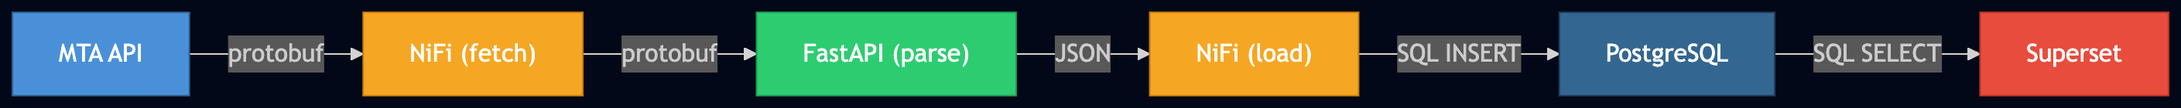
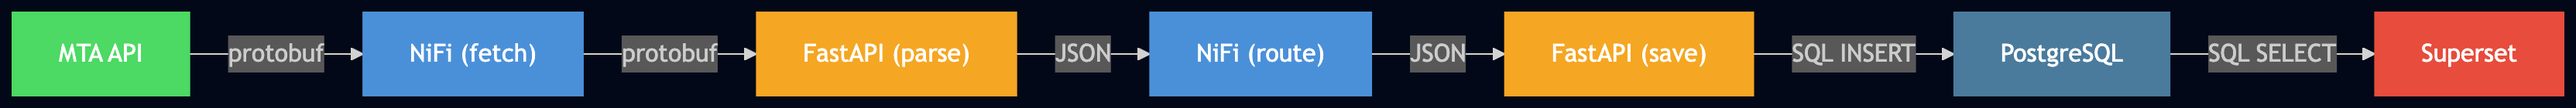
cambios en documentacion

diff --git a/README.md b/README.md
@@ -1,6 +1,6 @@
 # MTA Subway Realtime - Real Time Pipeline
 
-Alejandra Alvarado | Rudy Osorio | Erick Marroquín
+Alejandra Alvarado | Rudy Osorio | Erick Marroquin
 
 Big Data 2
 
@@ -15,52 +15,70 @@ Construir una plataforma de datos que:
 1. **Ingeste** los feeds GTFS-RT (protobuf) de la MTA en tiempo real
 2. **Parsee** el protobuf a JSON estructurado
 3. **Almacene** posiciones de trenes y predicciones de llegada en PostgreSQL
-4. **Visualice** los datos mediante dashboards interactivos en Superset
+4. **Enriquezca** los datos con schedules estaticos GTFS para deteccion de delays
+5. **Visualice** los datos mediante dashboards interactivos en Superset
 
 ## Arquitectura
 
 ![Arquitectura](docs/arquitectura.png)
 
-### Flujo de Datos
-
-![Flujo de datos](docs/flujo-datos.png)
+NiFi orquesta todo el flujo: cada 30 segundos hace fetch del feed GTFS-RT de la MTA, lo envia a FastAPI para parsearlo de protobuf a JSON, y luego lo envia de vuelta a FastAPI para persistirlo en PostgreSQL. Superset consulta las vistas gold directamente para los dashboards.
 
 ## Servicios
 
 | Servicio       | Contenedor       | Puerto  | Descripcion                                                |
 |----------------|------------------|---------|------------------------------------------------------------|
-| **PostgreSQL** | `mta-postgres`   | `5433`  | Almacena datos de la MTA y metadatos de Superset           |
-| **FastAPI**    | `mta-api`        | `8000`  | Parsea protobuf GTFS-RT a JSON                             |
+| **PostgreSQL** | `mta-postgres`   | `5432`  | Almacena datos de la MTA y metadatos de Superset           |
+| **FastAPI**    | `mta-api`        | `8000`  | Parsea protobuf GTFS-RT a JSON y guarda a la base de datos |
 | **NiFi**       | `mta-nifi`       | `8080`  | Orquesta la ingesta: fetch, parse y carga a la base        |
 | **Superset**   | `mta-superset`   | `8190`  | Dashboards y visualizacion de datos                        |
 
-### Red
-
 Todos los servicios comparten la red Docker `mta` (bridge), lo que permite la comunicacion interna por nombre de contenedor.
 
-## Modelo de Datos
+## Flujo de Datos
 
-![Modelo de datos](docs/modelo-datos.png)
+![Flujo de Datos](docs/flujo-datos.png)
 
-**Tablas de dimension:** `routes`, `stops`, `trips`, `train_statuses`
-**Tablas de hechos:** `vehicle_positions`, `time_updates`
+## Modelo de Datos — Arquitectura Medallion
+
+El modelo sigue una **arquitectura medallion** con tres capas: Bronze para datos crudos, Silver para datos de referencia, y Gold para vistas enriquecidas listas para consumo.
+
+![Modelo de Datos](docs/modelo-datos.png)
+
+### Bronze — Datos Crudos y Dimensiones
+
+Datos en tiempo real tal como llegan del feed de la MTA. Incluye tablas de dimension (`routes`, `stops`, `trips`, `train_statuses`) y tablas de hechos (`vehicle_positions`, `time_updates`) con deduplicacion automatica.
+
+### Silver — Schedule GTFS Estatico
+
+Horarios oficiales del subway cargados una sola vez desde los archivos GTFS estaticos. Incluye `calendar`, `calendar_dates`, `scheduled_trips` y `stop_times`.
+
+### Gold — Vistas Enriquecidas
+
+Vistas SQL que combinan datos realtime con los schedules estaticos:
+
+- **`v_gold_vehicle_positions`** — Posiciones de trenes enriquecidas con nombre de ruta, color, estacion y coordenadas. Lista para visualizar en un mapa.
+- **`v_gold_time_updates`** — Compara las predicciones de llegada en tiempo real contra el horario programado para detectar delays. Si un tren tiene mas de 5 minutos de retraso se marca como `DELAYED`, esta es una métrica del MTA que considera un tren retrasado si se pasa de 300 segundos (5 minutos) de la hora calendarizada.
 
 ## Estructura del Proyecto
 
 ```
 mta-nifi/
 ├── api/
-│   ├── main.py                  # App FastAPI (endpoints /health y /parse)
+│   ├── main.py                  # App FastAPI (endpoints /health, /parse, /save)
 │   └── requirements.txt         # Dependencias Python
 ├── database/
-│   ├── mta.sql                  # DDL: tablas, indices, constraints
-│   ├── seed.sql                 # Datos iniciales (rutas, estados)
-│   └── mta_g_feed.json         # Ejemplo de feed GTFS-RT convertido a JSON
+│   ├── mta.sql                  # DDL: tablas, indices, constraints, vistas gold
+│   ├── seed.sql                 # Datos iniciales (rutas, estados, calendario)
+│   ├── seed_gtfs.sql            # Datos GTFS estaticos (scheduled_trips, stop_times)
+│   ├── gtfs/                    # Archivos fuente GTFS (routes, stops, trips, etc.)
+│   └── mta_g_feed.json          # Ejemplo de feed GTFS-RT convertido a JSON
 ├── dockerfiles/
 │   ├── api/
 │   │   └── Dockerfile           # Imagen Python 3.11-slim + uvicorn
 │   ├── nifi/
-│   │   └── Dockerfile           # NiFi 1.23.2 + driver JDBC PostgreSQL
+│   │   ├── Dockerfile           # NiFi 1.23.2 + driver JDBC PostgreSQL
+│   │   └── set-proxy-host.sh    # Script de configuracion de proxy
 │   ├── postgres/
 │   │   ├── Dockerfile           # PostgreSQL 15-alpine
 │   │   └── init/
@@ -69,6 +87,10 @@ mta-nifi/
 │       ├── Dockerfile           # Superset 3.1.3 + psycopg2
 │       ├── docker-entrypoint.sh # Bootstrap: migrations, admin, datasource
 │       └── superset_config.py   # Configuracion de Superset
+├── docs/
+│   ├── arquitectura.mmd         # Diagrama de arquitectura (Mermaid)
+│   ├── flujo-datos.mmd          # Diagrama de flujo de datos (Mermaid)
+│   └── modelo-datos.mmd         # Diagrama ER del modelo de datos (Mermaid)
 ├── .env                         # Variables de entorno (no versionado)
 ├── .env.example                 # Plantilla de variables de entorno
 ├── docker-compose.yml           # Orquestacion de todos los servicios (no versionado)
@@ -111,7 +133,15 @@ open http://localhost:8080/nifi/
 open http://localhost:8190
 ```
 
-### 4. Probar el endpoint de parseo
+## API — FastAPI
+
+| Metodo | Ruta      | Content-Type               | Descripcion                                     |
+|--------|-----------|----------------------------|--------------------------------------------------|
+| GET    | `/health` | —                          | Healthcheck, retorna `{"status": "ok"}`          |
+| POST   | `/parse`  | `application/octet-stream` | Recibe protobuf GTFS-RT, retorna JSON            |
+| POST   | `/save`   | `application/json`         | Recibe JSON parseado, guarda en PostgreSQL       |
+
+### Ejemplo: parsear un feed
 
 ```bash
 curl -X POST http://localhost:8000/parse \
@@ -119,12 +149,25 @@ curl -X POST http://localhost:8000/parse \
   --data-binary @feed.pb
 ```
 
-## API — FastAPI Parser
+### Ejemplo: guardar a la base de datos
 
-| Metodo | Ruta      | Content-Type               | Descripcion                        |
-|--------|-----------|----------------------------|------------------------------------|
-| GET    | `/health` | —                          | Healthcheck, retorna `{"status": "ok"}` |
-| POST   | `/parse`  | `application/octet-stream` | Recibe protobuf GTFS-RT, retorna JSON  |
+El endpoint `/save` recibe el JSON generado por `/parse` y lo persiste en las tablas `vehicle_positions` y `time_updates`. NiFi orquesta este flujo automaticamente.
+
+## Consultas Visualización
+
+Una vez que hay datos en la base, las vistas gold estan disponibles para consulta directa:
+
+```sql
+-- Posiciones de trenes enriquecidas
+SELECT * FROM v_gold_vehicle_positions LIMIT 20;
+
+-- Delays: prediccion vs. schedule
+SELECT route, stop_name, direction, delay_seconds, trip_status
+FROM v_gold_time_updates
+WHERE trip_status = 'DELAYED'
+ORDER BY delay_seconds DESC
+LIMIT 20;
+```
 
 ## Credenciales por Defecto
 
@@ -149,11 +192,16 @@ El flag `-v` elimina todos los volumenes (datos de PostgreSQL, configuracion de 
 
 - [MTA Realtime Data Feeds](https://api.mta.info/) — API de datos en tiempo real del subway de Nueva York
 - [GTFS Realtime Reference](https://gtfs.org/documentation/realtime/reference/) — Especificacion del formato GTFS-RT (protobuf)
-- [gtfs-realtime-bindings (Python)](https://github.com/MobilityData/gtfs-realtime-bindings/tree/master/python) — Bindings de protobuf para GTFS-RT
+- [GTFS Static Reference](https://gtfs.org/documentation/schedule/reference/) — Especificacion del formato GTFS estatico (schedules, stops, calendar)
+- [gtfs-realtime-bindings (Python)](https://github.com/MobilityData/gtfs-realtime-bindings/tree/master/python) — Bindings de protobuf para GTFS-RT en Python
 - [Protocol Buffers](https://protobuf.dev/) — Formato de serializacion binaria de Google
 - [FastAPI](https://fastapi.tiangolo.com/) — Framework web async para Python
+- [Pydantic](https://docs.pydantic.dev/) — Validacion de datos y serializacion para Python
 - [Uvicorn](https://www.uvicorn.org/) — Servidor ASGI para Python
+- [psycopg2](https://www.psycopg.org/docs/) — Adaptador PostgreSQL para Python
 - [Apache NiFi](https://nifi.apache.org/docs.html) — Plataforma de integracion y automatizacion de flujos de datos
 - [PostgreSQL 15](https://www.postgresql.org/docs/15/) — Base de datos relacional
 - [Apache Superset](https://superset.apache.org/docs/intro) — Plataforma de visualizacion y BI
 - [Docker Compose](https://docs.docker.com/compose/) — Orquestacion de contenedores multi-servicio
+- [Mermaid](https://mermaid.js.org/) — Diagramas como codigo, usados para la documentacion del proyecto
+- [Medallion Architecture](https://www.databricks.com/glossary/medallion-architecture) — Patron de arquitectura de datos Bronze/Silver/Gold
